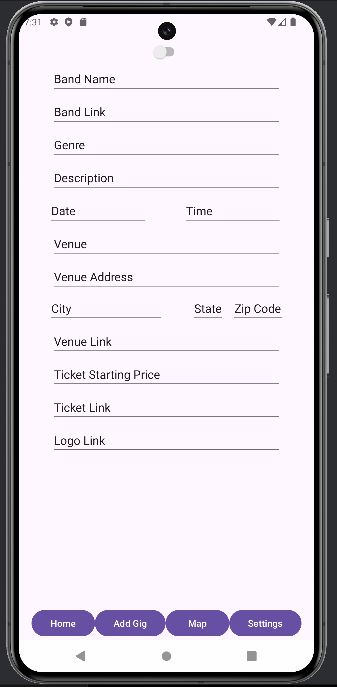
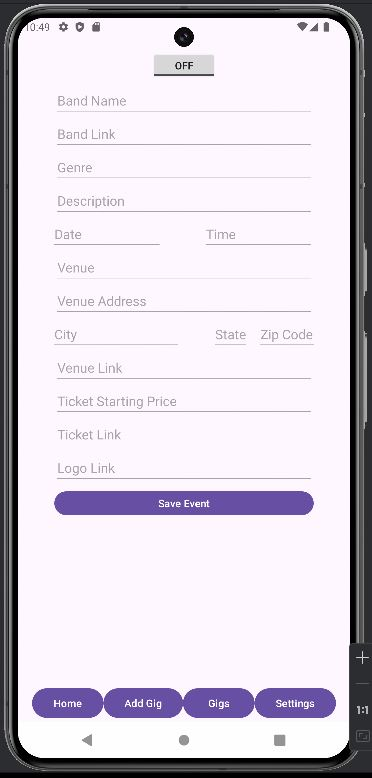
update save and list activity with examples

diff --git a/LiveMusicNowApp/app/src/main/java/com/example/livemusicnowapp/EventListActivity.java b/LiveMusicNowApp/app/src/main/java/com/example/livemusicnowapp/EventListActivity.java
@@ -22,7 +22,8 @@ public class EventListActivity extends AppCompatActivity {
         setContentView(R.layout.activity_event_list);
         initHomeButton();
         initEventButton();
-        initMapButton();
+        initEventsListButton();
+        //initMapButton();
         initSettingsButton();
         EventsDataSource ds = new EventsDataSource(this);
         ArrayList<String> bands;
@@ -56,6 +57,17 @@ public class EventListActivity extends AppCompatActivity {
             @Override
             public void onClick(View v) {
                 Intent intent = new Intent(EventListActivity.this, EventActivity.class);
+                intent.setFlags(Intent.FLAG_ACTIVITY_CLEAR_TOP);
+                startActivity(intent);
+            }
+        });
+    }
+    private void initEventsListButton(){
+        Button button = findViewById(R.id.btn_main_list);
+        button.setOnClickListener(new View.OnClickListener() {
+            @Override
+            public void onClick(View v) {
+                Intent intent = new Intent(EventListActivity.this, EventListActivity.class);
                 intent.setFlags(Intent.FLAG_ACTIVITY_CLEAR_TOP);
                 startActivity(intent);
             }

diff --git a/LiveMusicNowApp/app/src/main/java/com/example/livemusicnowapp/EventAdapter.java b/LiveMusicNowApp/app/src/main/java/com/example/livemusicnowapp/EventAdapter.java
@@ -14,13 +14,18 @@ public class EventAdapter extends RecyclerView.Adapter{
     private ArrayList<String> eventData;
     public class EventViewHolder extends RecyclerView.ViewHolder {
         public TextView textViewEvent;
+        //public TextView textViewDescription;
         public EventViewHolder(@NonNull View itemView) {
             super(itemView);
             textViewEvent = itemView.findViewById(R.id.textViewBand);
+            //textViewDescription = itemView.findViewById(R.id.textViewDescription);
         }
         public TextView getEventTextView(){
             return textViewEvent;
         }
+//        public TextView getDescriptionTextView(){
+//            return textViewDescription;
+//        }
     }
     public EventAdapter(ArrayList<String> arrayList) {
         eventData = arrayList;
@@ -36,6 +41,7 @@ public class EventAdapter extends RecyclerView.Adapter{
     public void onBindViewHolder(@NonNull RecyclerView.ViewHolder holder, int position) {
         EventViewHolder tvh = (EventViewHolder) holder;
         tvh.getEventTextView().setText(eventData.get(position));
+        //tvh.getDescriptionTextView().setText(eventData.get(position));
     }
 
     @Override

diff --git a/LiveMusicNowApp/app/src/main/java/com/example/livemusicnowapp/SettingsActivity.java b/LiveMusicNowApp/app/src/main/java/com/example/livemusicnowapp/SettingsActivity.java
@@ -25,7 +25,8 @@ public class SettingsActivity extends AppCompatActivity {
         });
         initHomeButton();
         initEventButton();
-        initMapButton();
+        initEventsListButton();
+        //initMapButton();
         initSettingsButton();
     }
 
@@ -46,6 +47,17 @@ public class SettingsActivity extends AppCompatActivity {
             @Override
             public void onClick(View v) {
                 Intent intent = new Intent(SettingsActivity.this, EventActivity.class);
+                intent.setFlags(Intent.FLAG_ACTIVITY_CLEAR_TOP);
+                startActivity(intent);
+            }
+        });
+    }
+    private void initEventsListButton(){
+        Button button = findViewById(R.id.btn_main_list);
+        button.setOnClickListener(new View.OnClickListener() {
+            @Override
+            public void onClick(View v) {
+                Intent intent = new Intent(SettingsActivity.this, EventListActivity.class);
                 intent.setFlags(Intent.FLAG_ACTIVITY_CLEAR_TOP);
                 startActivity(intent);
             }

diff --git a/LiveMusicNowApp/app/src/main/java/com/example/livemusicnowapp/MainActivity.java b/LiveMusicNowApp/app/src/main/java/com/example/livemusicnowapp/MainActivity.java
@@ -25,7 +25,8 @@ public class MainActivity extends AppCompatActivity {
         });
         initHomeButton();
         initEventButton();
-        initMapButton();
+        initEventsListButton();
+        //initMapButton();
         initSettingsButton();
     }
 
@@ -46,6 +47,17 @@ public class MainActivity extends AppCompatActivity {
             @Override
             public void onClick(View v) {
                 Intent intent = new Intent(MainActivity.this, EventActivity.class);
+                intent.setFlags(Intent.FLAG_ACTIVITY_CLEAR_TOP);
+                startActivity(intent);
+            }
+        });
+    }
+    private void initEventsListButton(){
+        Button button = findViewById(R.id.btn_main_list);
+        button.setOnClickListener(new View.OnClickListener() {
+            @Override
+            public void onClick(View v) {
+                Intent intent = new Intent(MainActivity.this, EventListActivity.class);
                 intent.setFlags(Intent.FLAG_ACTIVITY_CLEAR_TOP);
                 startActivity(intent);
             }

diff --git a/LiveMusicNowApp/app/src/main/java/com/example/livemusicnowapp/MapActivity.java b/LiveMusicNowApp/app/src/main/java/com/example/livemusicnowapp/MapActivity.java
@@ -25,7 +25,8 @@ public class MapActivity extends AppCompatActivity {
         });
         initHomeButton();
         initEventButton();
-        initMapButton();
+        initEventsListButton();
+        //initMapButton();
         initSettingsButton();
     }
 
@@ -46,6 +47,17 @@ public class MapActivity extends AppCompatActivity {
             @Override
             public void onClick(View v) {
                 Intent intent = new Intent(MapActivity.this, EventActivity.class);
+                intent.setFlags(Intent.FLAG_ACTIVITY_CLEAR_TOP);
+                startActivity(intent);
+            }
+        });
+    }
+    private void initEventsListButton(){
+        Button button = findViewById(R.id.btn_main_list);
+        button.setOnClickListener(new View.OnClickListener() {
+            @Override
+            public void onClick(View v) {
+                Intent intent = new Intent(MapActivity.this, EventListActivity.class);
                 intent.setFlags(Intent.FLAG_ACTIVITY_CLEAR_TOP);
                 startActivity(intent);
             }

diff --git a/LiveMusicNowApp/app/src/main/java/com/example/livemusicnowapp/EventActivity.java b/LiveMusicNowApp/app/src/main/java/com/example/livemusicnowapp/EventActivity.java
@@ -97,10 +97,8 @@ public class EventActivity extends AppCompatActivity {
         if (enabled) {
             editBand.requestFocus();
         } else {
-            // *********************** NEED TO FIND ALTERNATIVE FOR THIS ****************************
-            editLogoLink.requestFocus();
-            //ScrollView s = findViewById(R.id.controlsScrollView);
-            //s.fullScroll(ScrollView.FOCUS_UP);
+            ScrollView s = findViewById(R.id.controlsScrollView);
+            s.fullScroll(ScrollView.FOCUS_UP);
         }
     }
     public void initTextChangedEvents() {

diff --git a/LiveMusicNowApp/app/src/main/java/com/example/livemusicnowapp/EventsDatabaseHelper.java b/LiveMusicNowApp/app/src/main/java/com/example/livemusicnowapp/EventsDatabaseHelper.java
@@ -7,7 +7,7 @@ import android.util.Log;
 
 public class EventsDatabaseHelper extends SQLiteOpenHelper {
     private static final String DATABASE_NAME = "livemusicnow.db";
-    private static final int DATABASE_VERSION = 5;
+    private static final int DATABASE_VERSION = 1;
 
     /*Database creation SQL statement*/
     private static final String CREATE_TABLE_EVENTS =

diff --git a/LiveMusicNowApp/app/src/main/java/com/example/livemusicnowapp/EventsDataSource.java b/LiveMusicNowApp/app/src/main/java/com/example/livemusicnowapp/EventsDataSource.java
@@ -17,7 +17,6 @@ public class EventsDataSource {
     }
     public void open() throws SQLException {
         database = dbHelper.getWritableDatabase();
-        //dbHelper.onCreate(database); //added to fix table not existing error - creates table already exists error now
     }
     public void close(){
         dbHelper.close();
